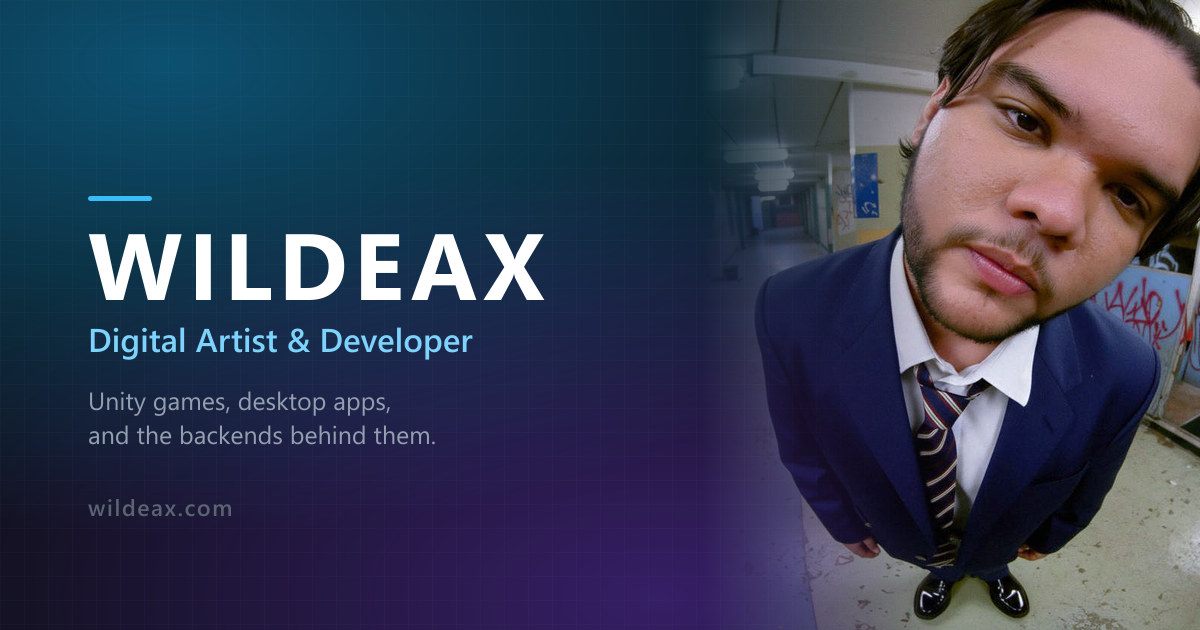
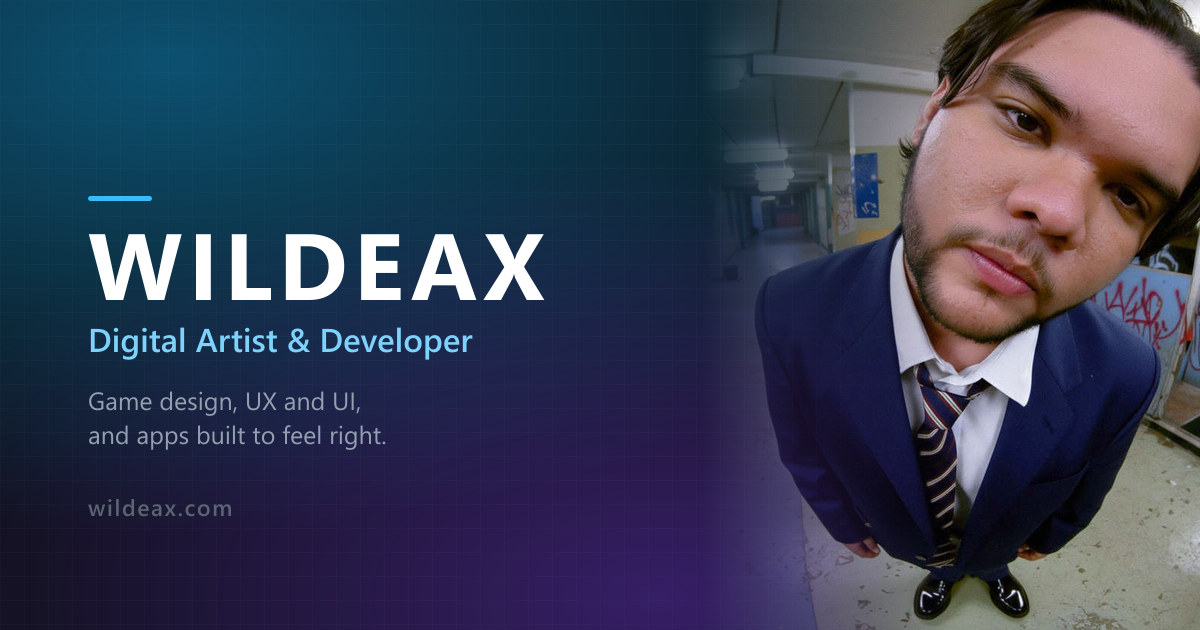
Lead with design, drag windows by the title bar, add Questionary
The readme, the search description, the link-preview card and the JSON-LD job
title all said the author's day goes to servers, schemas and deploy pipelines.
He is a game designer and a UX/UI designer who builds the apps he wants to
exist; the backend gets built because the app needs one. The copy now says
that, in English and Spanish, and og.jpg is regenerated with matching lines.

Windows drag by their title bar only, the way any OS works, so text in a
window body can be selected. PlayableSurface gains an optional handle selector,
Playable forwards it, Window marks its title bar, Desktop passes it for windows
and not for icons or stickers, which still drag from anywhere.

Questionary, the open-source quiz app, joins work.exe as its own window with
translations in both languages and a link to the repository.

Claude-Session: https://claude.ai/code/session_01DpcqEzmE8gZvG6gctXixrq

Changed region(s): [[0.0617, 0.6032, 0.37, 0.7238]]

diff --git a/src/i18n/resources.ts b/src/i18n/resources.ts
@@ -8,6 +8,10 @@ type Resources = Record<Lang, Dict>
 
 export const resources: Resources = {
   en: {
+    'os.win.questionary': 'questionary.exe',
+    'os.project.questionary.name': 'Questionary',
+    'os.project.questionary.desc': 'Open-source quiz app for studying. Loads questions from JSON or YAML, shuffles them, tracks progress, and resumes an unfinished session.',
+    'os.project.questionary.stack': 'React, TypeScript, Tailwind CSS, Vite',
     'nav.arena': 'Arena Assistant',
     'os.win.readme': 'readme.txt',
     'os.win.work': 'work.exe',
@@ -20,7 +24,7 @@ export const resources: Resources = {
     'os.win.collab': 'mood-collab.exe',
     'os.win.pos': 'pharmacy-erp.exe',
     'os.readme.p1': 'Francol Steven Aristizabal Romero. Medellín, Colombia. Co-founder at Mood Studios.',
-    'os.readme.p2': 'I came up through digital art and game design. These days most of my hours go to the systems underneath: game servers, desktop clients, and the pipelines that ship them.',
+    'os.readme.p2': 'Game designer first, then UX and UI. I care how an interface feels to use, and I make the apps I want to exist: the look, the interaction, the details. When one needs a backend I build it, because the app needs it, not because it is the point.',
     'os.readme.p3': 'Self-taught, still learning in public.',
     'os.work.heading': 'Things I am building',
     'os.work.open': 'Open',
@@ -79,6 +83,10 @@ export const resources: Resources = {
     'notfound.back': 'Go back home',
   },
   es: {
+    'os.win.questionary': 'questionary.exe',
+    'os.project.questionary.name': 'Questionary',
+    'os.project.questionary.desc': 'App de cuestionarios de código abierto para estudiar. Carga preguntas desde JSON o YAML, las mezcla, guarda el progreso y retoma una sesión sin terminar.',
+    'os.project.questionary.stack': 'React, TypeScript, Tailwind CSS, Vite',
     'nav.arena': 'Arena Assistant',
     'os.win.readme': 'leeme.txt',
     'os.win.work': 'trabajo.exe',
@@ -91,7 +99,7 @@ export const resources: Resources = {
     'os.win.collab': 'mood-collab.exe',
     'os.win.pos': 'erp-farmacia.exe',
     'os.readme.p1': 'Francol Steven Aristizabal Romero. Medellín, Colombia. Cofundador en Mood Studios.',
-    'os.readme.p2': 'Vengo del arte digital y el diseño de juegos. Hoy la mayoría de mis horas van a los sistemas de abajo: servidores de juego, clientes de escritorio y las tuberías que los publican.',
+    'os.readme.p2': 'Diseñador de juegos primero, y después UX y UI. Me importa cómo se siente usar una interfaz, y hago las apps que quiero que existan: el look, la interacción, los detalles. Cuando una necesita backend, lo construyo porque la app lo necesita, no porque sea el punto.',
     'os.readme.p3': 'Autodidacta, y sigo aprendiendo en público.',
     'os.work.heading': 'En lo que estoy trabajando',
     'os.work.open': 'Abrir',

diff --git a/src/play/PlayableSurface.tsx b/src/play/PlayableSurface.tsx
@@ -8,6 +8,13 @@ export interface PlayableSurfaceProps {
   transform: Transform
   onTransform: (t: Transform) => void
   children: ReactNode
+  /**
+   * CSS selector. When set, only a press inside a matching descendant starts
+   * a drag; presses elsewhere are left alone, so text in a window body can be
+   * selected. Windows pass their title bar. Icons and stickers pass nothing
+   * and drag from anywhere, which is right for them.
+   */
+  handle?: string
 }
 
 interface DragState {
@@ -39,7 +46,7 @@ function prefersReducedMotion(): boolean {
  * one. Imports nothing from playhtml so it can be tested alone and so the
  * offline path in sync.tsx can render it inert.
  */
-export function PlayableSurface({ caps, transform, onTransform, children }: PlayableSurfaceProps) {
+export function PlayableSurface({ caps, transform, onTransform, children, handle }: PlayableSurfaceProps) {
   const ref = useRef<HTMLDivElement>(null)
   const drag = useRef<DragState | null>(null)
   const longPress = useRef<ReturnType<typeof setTimeout> | null>(null)
@@ -60,7 +67,9 @@ export function PlayableSurface({ caps, transform, onTransform, children }: Play
   const onPointerDown = useCallback(
     (e: ReactPointerEvent<HTMLDivElement>) => {
       if (!canMove) return
-      if ((e.target as Element).closest(NO_DRAG_SELECTOR)) return
+      const target = e.target as Element
+      if (target.closest(NO_DRAG_SELECTOR)) return
+      if (handle && !target.closest(handle)) return
       const pointerId = e.pointerId
       drag.current = {
         pointerId,
@@ -80,7 +89,7 @@ export function PlayableSurface({ caps, transform, onTransform, children }: Play
         }, LONG_PRESS_MS)
       }
     },
-    [canMove, transform],
+    [canMove, handle, transform],
   )
 
   const onPointerMove = useCallback(

diff --git a/index.html b/index.html
@@ -6,7 +6,7 @@
     <meta name="theme-color" content="#0b0e12" />
     <meta name="viewport" content="width=device-width, initial-scale=1.0" />
     <title>Wildeax · Digital Artist &amp; Developer</title>
-    <meta name="description" content="Wildeax is a generalist artist and developer in Medellín, Colombia. Unity games, gameplay systems, desktop apps, and the backends behind them." />
+    <meta name="description" content="Wildeax is a game designer and UX/UI designer in Medellín, Colombia, who builds the apps he wants to exist." />
     <meta name="author" content="Francol Steven Aristizabal Romero" />
     <link rel="canonical" href="https://www.wildeax.com/" />
 
@@ -16,7 +16,7 @@
     <meta property="og:site_name" content="Wildeax" />
     <meta property="og:url" content="https://www.wildeax.com/" />
     <meta property="og:title" content="Wildeax · Digital Artist &amp; Developer" />
-    <meta property="og:description" content="Unity games, desktop apps, and the backends behind them. Medellín, Colombia." />
+    <meta property="og:description" content="Game design, UX and UI, and apps built to feel right. Medellín, Colombia." />
     <meta property="og:image" content="https://www.wildeax.com/og.jpg" />
     <meta property="og:image:width" content="1200" />
     <meta property="og:image:height" content="630" />
@@ -34,7 +34,7 @@
         "alternateName": "Wildeax",
         "url": "https://www.wildeax.com/",
         "image": "https://www.wildeax.com/og.jpg",
-        "jobTitle": "Digital Artist & Developer",
+        "jobTitle": "Game designer and UX/UI designer",
         "worksFor": { "@type": "Organization", "name": "Mood Studios LLC" },
         "address": { "@type": "PostalAddress", "addressLocality": "Medellín", "addressCountry": "CO" },
         "sameAs": [

diff --git a/src/play/__tests__/PlayableSurface.test.tsx b/src/play/__tests__/PlayableSurface.test.tsx
@@ -139,6 +139,31 @@ describe('PlayableSurface', () => {
     expect(evt.defaultPrevented).toBe(true)
   })
 
+  it('with a handle, a press on the body does not drag but a press on the handle does', () => {
+    const onTransform = vi.fn()
+    const { container } = render(
+      <PlayableSurface caps={['move']} transform={IDENTITY_TRANSFORM} onTransform={onTransform} handle="[data-drag-handle]">
+        <div>
+          <div data-drag-handle>title</div>
+          <p>selectable body text</p>
+        </div>
+      </PlayableSurface>,
+    )
+    const surface = container.firstElementChild as HTMLElement
+    givePage(surface, { left: 100, top: 100, width: 50, height: 50 }, 1000, 800)
+    const body = surface.querySelector('p')!
+    fireEvent.pointerDown(body, { pointerId: 1, clientX: 0, clientY: 0, pointerType: 'mouse' })
+    fireEvent.pointerMove(body, { pointerId: 1, clientX: 40, clientY: 20 })
+    fireEvent.pointerUp(body, { pointerId: 1, clientX: 40, clientY: 20 })
+    expect(onTransform).not.toHaveBeenCalled()
+
+    const title = surface.querySelector('[data-drag-handle]')!
+    fireEvent.pointerDown(title, { pointerId: 2, clientX: 0, clientY: 0, pointerType: 'mouse' })
+    fireEvent.pointerMove(title, { pointerId: 2, clientX: 40, clientY: 20 })
+    fireEvent.pointerUp(title, { pointerId: 2, clientX: 40, clientY: 20 })
+    expect(onTransform).toHaveBeenCalledWith({ x: 40, y: 20, rotation: 0, scale: 1 })
+  })
+
   it('ignores drags when move is not among its capabilities', () => {
     const onTransform = vi.fn()
     const { container } = render(

diff --git a/src/play/sync.tsx b/src/play/sync.tsx
@@ -21,6 +21,8 @@ export interface PlayableProps {
   id: string
   caps: readonly Capability[]
   children: ReactNode
+  /** Forwarded to PlayableSurface: restrict drag starts to this selector. */
+  handle?: string
 }
 
 /**
@@ -33,7 +35,7 @@ export interface PlayableProps {
 const SharedPlayable = withSharedState(
   (props: PlayableProps) => ({ defaultData: IDENTITY_TRANSFORM, id: props.id }),
   ({ data, setData }: { data: Transform; setData: (t: Transform) => void }, props: PlayableProps) => (
-    <PlayableSurface caps={props.caps} transform={data} onTransform={setData}>
+    <PlayableSurface caps={props.caps} transform={data} onTransform={setData} handle={props.handle}>
       {/* playhtml's HOC walks the React tree for the first DOM element and
           clones its id and ref onto it. PlayableSurface is a component, so it
           looks inside; if the child is also a component with no DOM child of
@@ -69,7 +71,7 @@ class PlayBoundary extends Component<
   }
 }
 
-export function Playable({ id, caps, children }: PlayableProps) {
+export function Playable({ id, caps, children, handle }: PlayableProps) {
   return (
     <PlayBoundary
       fallback={
@@ -78,7 +80,7 @@ export function Playable({ id, caps, children }: PlayableProps) {
         </PlayableSurface>
       }
     >
-      <SharedPlayable id={id} caps={caps}>
+      <SharedPlayable id={id} caps={caps} handle={handle}>
         {children}
       </SharedPlayable>
     </PlayBoundary>

diff --git a/src/os/Window.tsx b/src/os/Window.tsx
@@ -34,7 +34,12 @@ export function Window({ id, title, hidden, onClose, onFocus, onMinimize, childr
       style={{ display: hidden ? 'none' : undefined }}
       className="flex h-full w-full flex-col overflow-hidden rounded-lg border border-brand-400/30 bg-[#0b0e12]/95 shadow-[0_0_0_1px_rgba(34,211,238,0.08),0_18px_48px_rgba(0,0,0,0.6)] backdrop-blur"
     >
-      <div className="flex shrink-0 items-center justify-between gap-2 border-b border-brand-400/25 bg-gradient-to-r from-brand-400/15 to-violet-500/15 px-3 py-1.5">
+      {/* The drag handle. Only the title bar moves the window, so text in the
+          body can be selected the way it can in any real OS. */}
+      <div
+        data-drag-handle
+        className="flex shrink-0 cursor-grab select-none items-center justify-between gap-2 border-b border-brand-400/25 bg-gradient-to-r from-brand-400/15 to-violet-500/15 px-3 py-1.5 active:cursor-grabbing"
+      >
         <span className="truncate font-mono text-xs tracking-wide text-brand-200">{title}</span>
         <div className="flex shrink-0 items-center gap-1">
           {onMinimize && (

diff --git a/src/os/__tests__/Window.test.tsx b/src/os/__tests__/Window.test.tsx
@@ -17,6 +17,18 @@ describe('Window', () => {
     expect(screen.getByText('hello')).toBeTruthy()
   })
 
+  it('marks its title bar as the drag handle, so body text stays selectable', () => {
+    render(
+      <Window id="readme" title="readme.txt" hidden={false} onClose={() => {}} onFocus={() => {}}>
+        <p>hello</p>
+      </Window>,
+    )
+    const handle = screen.getByRole('dialog').querySelector('[data-drag-handle]')
+    expect(handle).not.toBeNull()
+    expect(handle?.textContent).toContain('readme.txt')
+    expect(screen.getByText('hello').closest('[data-drag-handle]')).toBeNull()
+  })
+
   it('is a labelled dialog for screen readers', () => {
     render(
       <Window id="readme" title="readme.txt" hidden={false} onClose={() => {}} onFocus={() => {}}>

diff --git a/src/os/registry.ts b/src/os/registry.ts
@@ -32,6 +32,7 @@ export const WINDOWS: readonly WindowDef[] = [
   { id: 'sweepr98', titleKey: 'os.win.sweepr98', width: 440, height: 300, x: 360, y: 200, openOnLoad: false, glyph: '💣', iconSrc: sweeprIcon },
   { id: 'collab', titleKey: 'os.win.collab', width: 440, height: 320, x: 390, y: 230, openOnLoad: false, glyph: '🔗' },
   { id: 'pos', titleKey: 'os.win.pos', width: 440, height: 320, x: 420, y: 260, openOnLoad: false, glyph: '🏥' },
+  { id: 'questionary', titleKey: 'os.win.questionary', width: 440, height: 300, x: 450, y: 290, openOnLoad: false, glyph: '🎯' },
 ]
 
 /**

diff --git a/src/os/Desktop.tsx b/src/os/Desktop.tsx
@@ -238,7 +238,7 @@ export function Desktop() {
         }
         return (
           <div key={w.id} data-win-wrapper={w.id} className="absolute" style={wrapperStyle}>
-            <Playable id={`win-${w.id}`} caps={['move']}>
+            <Playable id={`win-${w.id}`} caps={['move']} handle="[data-drag-handle]">
               <div
                 data-win-box={w.id}
                 className={inFlight ? `os-flight-${inFlight.kind}` : undefined}

diff --git a/src/os/projects.ts b/src/os/projects.ts
@@ -58,4 +58,12 @@ export const PROJECTS: readonly Project[] = [
     stackKey: 'os.project.pos.stack',
     stackIcons: 'java,ts,react,tauri,rust,postgres',
   },
+  {
+    id: 'questionary',
+    nameKey: 'os.project.questionary.name',
+    descKey: 'os.project.questionary.desc',
+    stackKey: 'os.project.questionary.stack',
+    stackIcons: 'react,ts,tailwind,vite',
+    href: 'https://github.com/Wildeax/Questionary',
+  },
 ]

diff --git a/src/os/types.ts b/src/os/types.ts
@@ -14,6 +14,7 @@ export type WindowId =
   | 'sweepr98'
   | 'collab'
   | 'pos'
+  | 'questionary'
 
 export interface WindowDef {
   id: WindowId
